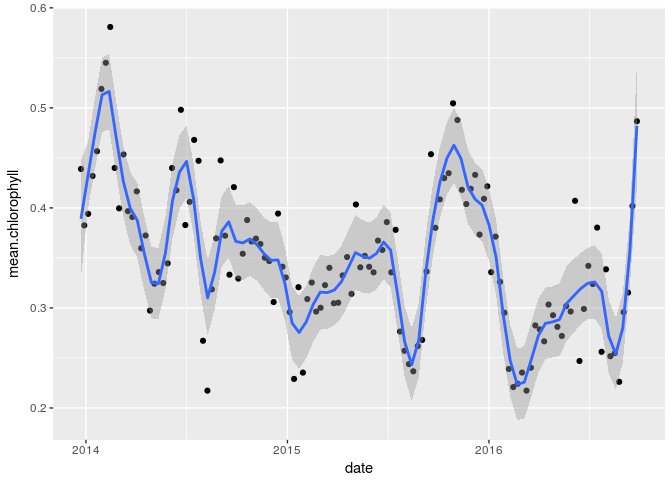
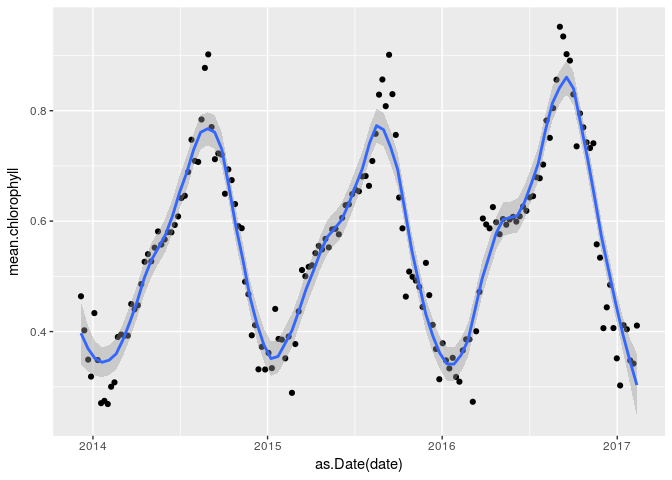
updating docs for version 3.1.0.0 update

diff --git a/README.md b/README.md
@@ -108,23 +108,49 @@ library( magrittr )
 library( data.table )
 library( plyr )
 
-chl.files <- paste0( data.input.folder,
-                     c( "/erdSWchla8day_5e25_bcf8_7643.nc",
-                        "/erdMH1chla8day_4d10_c7b5_5ad5.nc" )
-)
+chl.file <- paste0( data.input.folder, "/dataset-global-analysis-forecast-bio-001-014_1486686773262.nc" )
+```
+
+The functions here will *attempt* to find logical ways in which data has been stored within the given .nc file. However, since there doesn't seem to be standard for how to store data in .nc files (we should standardise this!), we may need to extract certain things from the file manually. In this case, we'll extract the timeseries data maually, convert it to a logical date format, then pass that to the next function `chlorophyllCalc` to override any automated extraction of that.
+
+``` r
+variables.available <- nc_variableNames( chl.file )
+time.variable.name <- variables.available[ grep( "time|date", variables.available ) ]
+library( ncdf4 )
+nc <- nc_open( chl.file )
+times <- ncvar_get( nc, time.variable.name )
+nc_close( nc )
+head( times )
+#> [1] 543468 543636 543804 543972 544140 544308
+```
+
+Note that in this case, as with the previous on (both of these files came from the same data source, the European Union's "Copernicus" repository), we need to convert the times from a numeric "hourse since 1950-01-01 00:00:00":
+
+``` r
+library( magrittr )
+times %<>%
+    as.numeric() %>%
+    divide_by( 24 ) %>%
+    as.Date( origin = "1950-01-01" )
+head( times )
+#> [1] "2011-12-31" "2012-01-07" "2012-01-14" "2012-01-21" "2012-01-28"
+#> [6] "2012-02-04"
 ```
 
 Then process that list of files to achieve an output chlorophyll measurement for each available date. Note that each dated chlorophyll matrix must have conductance data against which to apply the algorithm. We can specify a buffer time as `max.day.diff` which will allow some leeway here, such that slight mismatches in conductance data and chlorophyll data can be tolerated (either a single match, or extrapolated data between nearest before and after data points will be used).
 
 ``` r
-dates.chlorophyll <- plyr::ldply( .data = chl.files,
+dates.chlorophyll <- plyr::ldply( .data = chl.file,
                                   .fun = chlorophyllCalc,
-                                  data.variable = "chlorophyll",
+                                  data.variable = "chl",
+                                  depth.dimension = NULL,
+                                  depth.touse = NULL,
+                                  timeseries = times,
                                   conductance.data = conductance.table,
-                                  max.day.diff = 10,
+                                  max.day.diff = 30,
                                   .parallel = FALSE ) %>%
   setDT() %>%
-  # for duplicates (since we analysed two files) take an average
+  # for duplicates (useful in cases where more than one file has been analysed) take an average
   .[ , mean( mean.chlorophyll ), by = date ] %>%
   # sort by date
   setorder( date ) %>%
@@ -138,21 +164,21 @@ What we're left with is a data frame displaying dates and chlorophyll values.
 ``` r
 head( dates.chlorophyll )
 #>          date mean.chlorophyll
-#> 1: 2013-12-23        0.4388904
-#> 2: 2013-12-29        0.3825137
-#> 3: 2014-01-05        0.3940464
-#> 4: 2014-01-13        0.4319269
-#> 5: 2014-01-21        0.4566485
-#> 6: 2014-01-29        0.5189684
+#> 1: 2013-12-07        0.4638718
+#> 2: 2013-12-14        0.4022076
+#> 3: 2013-12-22        0.3491838
+#> 4: 2013-12-28        0.3184212
+#> 5: 2014-01-04        0.4334572
+#> 6: 2014-01-11        0.3483841
 ```
 
 We can now plot the results:
 
 ``` r
 library( ggplot2 )
-ggplot( data = dates.chlorophyll, mapping = aes( x = date, y = mean.chlorophyll ) ) +
+ggplot( data = dates.chlorophyll, mapping = aes( x = as.Date( date ), y = mean.chlorophyll ) ) +
     geom_point() +
-    geom_smooth( method = "loess", span = 0.1 )
+    geom_smooth( method = "loess", span = 0.2 )
 ```
 
 ![](READMEfigs/plotChlorophyll-1.png)
